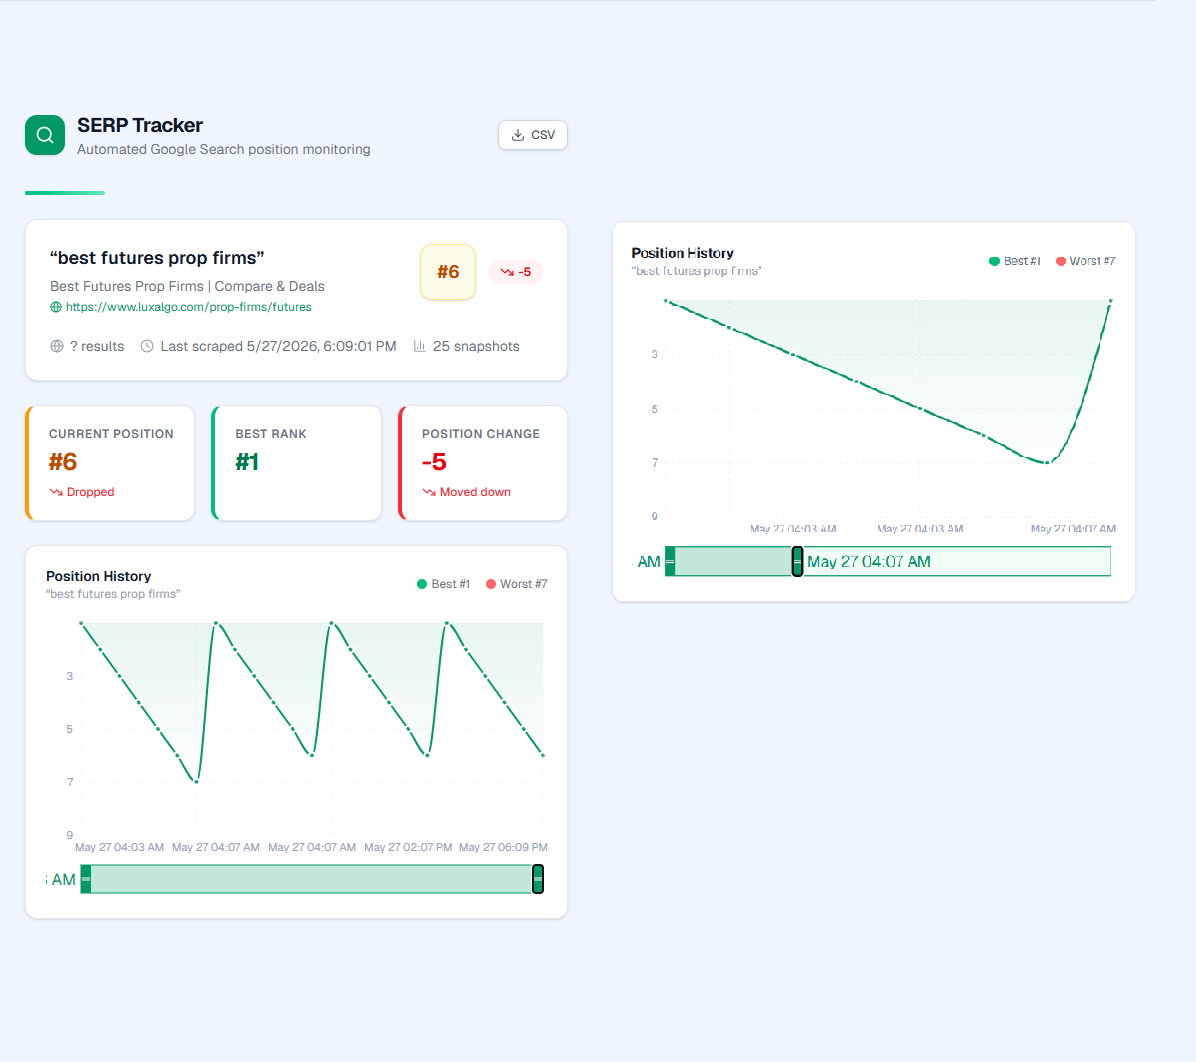
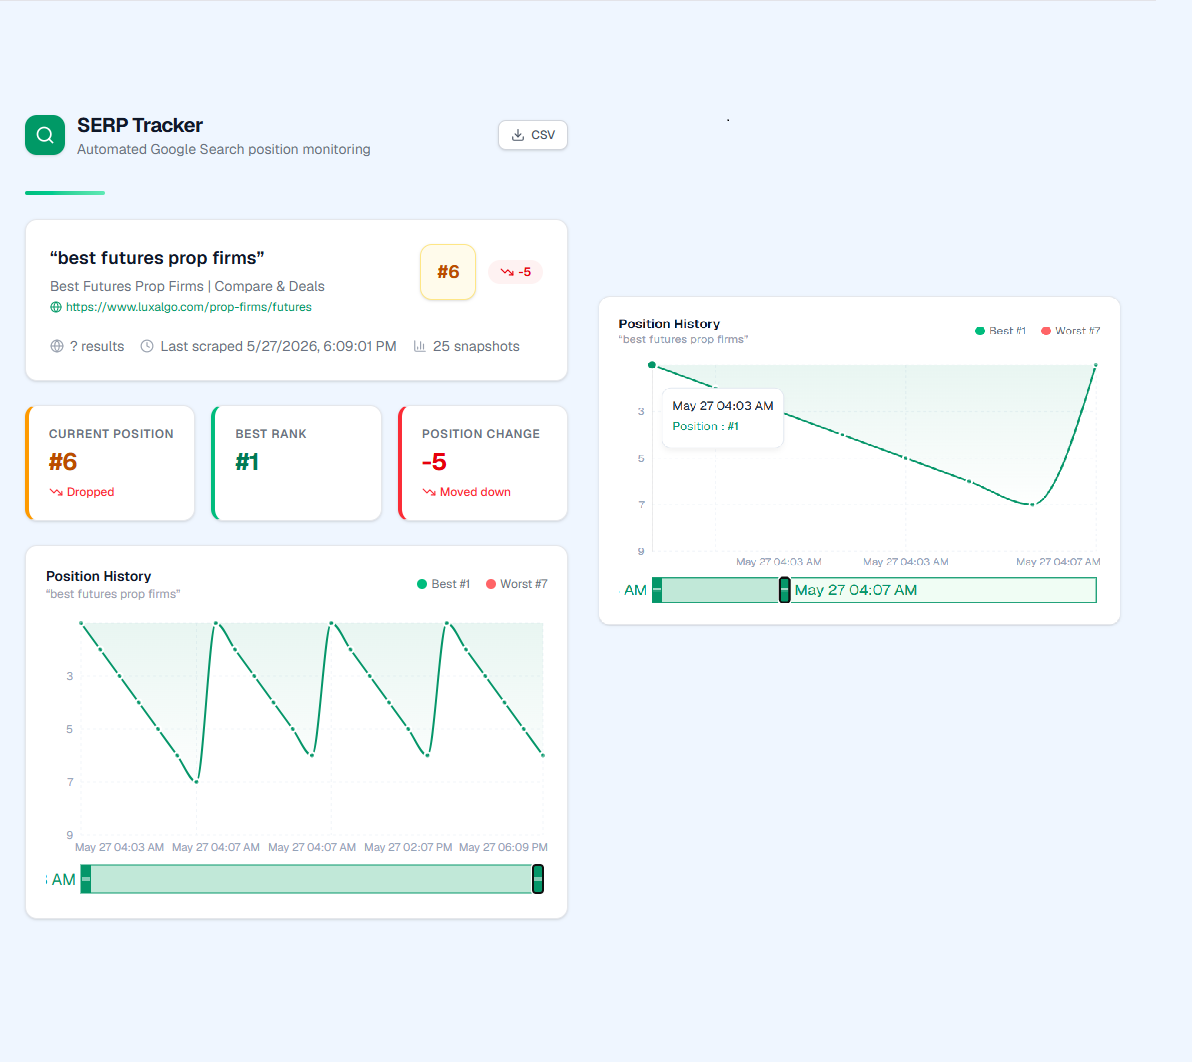
Show all SERP positions per keyword in table

diff --git a/src/app/page.tsx b/src/app/page.tsx
@@ -1,25 +1,25 @@
 "use client"
 
 import { useEffect, useState } from "react"
-import { Search, TrendingUp, TrendingDown, BarChart3, Clock, Globe } from "lucide-react"
-import StatCard from "@/components/StatCard"
+import { Search, BarChart3, Clock, Globe } from "lucide-react"
 import RankChart from "@/components/RankChart"
 import ExportButton from "@/components/ExportButton"
 
+type SERPResult = {
+  position: number | null
+  title: string | null
+  url: string | null
+  rating: number | null
+  description: string | null
+  snapshots: number
+  history: { date: string; position: number | null }[]
+}
+
 type KeywordData = {
   keyword: string
-  currentPosition: number | null
-  currentTitle: string | null
-  currentUrl: string | null
-  currentRating: number | null
   totalResults: number | null
   lastScraped: string
-  stats: {
-    best: number | null
-    change: number | null
-    totalSnapshots: number
-  }
-  positionHistory: { date: string; position: number | null }[]
+  results: SERPResult[]
 }
 
 export default function Home() {
@@ -55,13 +55,6 @@ export default function Home() {
     )
   }
 
-  function positionColor(pos: number | null): "green" | "amber" | "red" {
-    if (pos === null) return "amber"
-    if (pos <= 3) return "green"
-    if (pos <= 10) return "amber"
-    return "red"
-  }
-
   return (
     <div className="mx-auto max-w-6xl px-4 py-10">
       <div className="mb-8 flex items-center justify-between">
@@ -77,16 +70,17 @@ export default function Home() {
           </div>
         </div>
         <ExportButton
-          data={data.flatMap((kw) => ({
-            Keyword: kw.keyword,
-            Position: kw.currentPosition ?? "",
-            Title: kw.currentTitle ?? "",
-            URL: kw.currentUrl ?? "",
-            Rating: kw.currentRating ?? "",
-            "Total Results": kw.totalResults ?? "",
-            "Best Rank": kw.stats.best ?? "",
-            Change: kw.stats.change ?? "",
-          }))}
+          data={data.flatMap((kw) =>
+            kw.results.map((r) => ({
+              Keyword: kw.keyword,
+              Position: r.position ?? "",
+              Title: r.title ?? "",
+              URL: r.url ?? "",
+              Rating: r.rating ?? "",
+              "Total Results": kw.totalResults ?? "",
+              Snapshots: r.snapshots,
+            }))
+          )}
           columns={[
             { key: "Keyword", label: "Keyword" },
             { key: "Position", label: "Position" },
@@ -94,8 +88,7 @@ export default function Home() {
             { key: "URL", label: "URL" },
             { key: "Rating", label: "Rating" },
             { key: "Total Results", label: "Total Results" },
-            { key: "Best Rank", label: "Best Rank" },
-            { key: "Change", label: "Change" },
+            { key: "Snapshots", label: "Snapshots" },
           ]}
           filename="serp-positions"
         />
@@ -103,111 +96,79 @@ export default function Home() {
 
       <div className="mb-6 h-1 w-20 rounded-full bg-gradient-to-r from-emerald-500 to-emerald-300" />
 
-      {data.map((kw) => {
-        const improved = kw.stats.change !== null && kw.stats.change > 0
-        const dropped = kw.stats.change !== null && kw.stats.change < 0
-        const posAccent = positionColor(kw.currentPosition)
-
-        return (
-          <div key={kw.keyword} className="space-y-6">
-            <div className="rounded-xl border border-gray-200 bg-white p-6 shadow-sm">
-              <div className="flex items-start justify-between gap-4">
-                <div className="min-w-0 flex-1">
-                  <h2 className="text-lg font-semibold text-gray-900">
-                    &ldquo;{kw.keyword}&rdquo;
-                  </h2>
-                  <p className="mt-1 text-sm text-gray-500 line-clamp-1">
-                    {kw.currentTitle ?? "No title data"}
-                  </p>
-                  {kw.currentUrl && (
-                    <a
-                      href={kw.currentUrl}
-                      target="_blank"
-                      rel="noopener noreferrer"
-                      className="mt-0.5 inline-flex items-center gap-1 text-xs text-emerald-600 hover:text-emerald-700 hover:underline"
-                    >
-                      <Globe size={12} />
-                      {kw.currentUrl.slice(0, 70)}
-                    </a>
-                  )}
-                </div>
-                <div className="flex flex-col items-end gap-2">
-                  <div className="flex items-center gap-3">
-                    <div className={`flex h-14 w-14 items-center justify-center rounded-xl font-bold text-lg shadow-sm ${
-                      posAccent === "green" ? "bg-emerald-50 text-emerald-700 border border-emerald-200" :
-                      posAccent === "amber" ? "bg-amber-50 text-amber-700 border border-amber-200" :
-                      "bg-red-50 text-red-600 border border-red-200"
-                    }`}>
-                      #{kw.currentPosition ?? "?"}
-                    </div>
-                    {improved && (
-                      <span className="inline-flex items-center gap-1 rounded-full bg-emerald-50 px-3 py-1 text-xs font-semibold text-emerald-700">
-                        <TrendingUp size={14} />
-                        +{kw.stats.change}
-                      </span>
-                    )}
-                    {dropped && (
-                      <span className="inline-flex items-center gap-1 rounded-full bg-red-50 px-3 py-1 text-xs font-semibold text-red-600">
-                        <TrendingDown size={14} />
-                        {kw.stats.change}
-                      </span>
-                    )}
-                    {kw.stats.change === 0 && (
-                      <span className="inline-flex items-center gap-1 rounded-full bg-gray-50 px-3 py-1 text-xs font-semibold text-gray-500">
-                        No change
-                      </span>
-                    )}
-                  </div>
-                  {kw.currentRating && (
-                    <span className="text-xs text-amber-600 font-medium">
-                      ⭐ {kw.currentRating}
-                    </span>
-                  )}
-                </div>
+      {data.map((kw) => (
+        <div key={kw.keyword} className="space-y-6">
+          <div className="rounded-xl border border-gray-200 bg-white p-6 shadow-sm">
+            <div className="flex items-center justify-between gap-4 mb-4">
+              <div>
+                <h2 className="text-lg font-semibold text-gray-900">
+                  &ldquo;{kw.keyword}&rdquo;
+                </h2>
+                <p className="text-sm text-gray-500">
+                  {kw.totalResults?.toLocaleString() ?? "?"} results · Last scraped {new Date(kw.lastScraped).toLocaleString("en")}
+                </p>
               </div>
-
-              <div className="mt-4 flex flex-wrap items-center gap-4 text-sm text-gray-500">
-                <span className="flex items-center gap-1.5">
-                  <Globe size={14} className="text-gray-400" />
-                  {kw.totalResults ? `${kw.totalResults.toLocaleString()} results` : ""}
-                </span>
-                <span className="flex items-center gap-1.5">
-                  <Clock size={14} className="text-gray-400" />
-                  Last scraped {new Date(kw.lastScraped).toLocaleString("en")}
-                </span>
-                <span className="flex items-center gap-1.5">
-                  <BarChart3 size={14} className="text-gray-400" />
-                  {kw.stats.totalSnapshots} snapshots
-                </span>
-              </div>
+              <span className="text-xs text-gray-400">{kw.results.length} positions</span>
             </div>
 
-            <div className="grid grid-cols-3 gap-4">
-              <StatCard
-                label="Current Position"
-                value={kw.currentPosition !== null ? `#${kw.currentPosition}` : null}
-                accent={posAccent}
-                trend={improved ? "up" : dropped ? "down" : "neutral"}
-                trendLabel={improved ? "Improved" : dropped ? "Dropped" : "Stable"}
-              />
-              <StatCard
-                label="Best Rank"
-                value={kw.stats.best !== null ? `#${kw.stats.best}` : null}
-                accent="green"
-              />
-              <StatCard
-                label="Position Change"
-                value={kw.stats.change !== null ? `${kw.stats.change > 0 ? "+" : ""}${kw.stats.change}` : null}
-                accent={improved ? "green" : dropped ? "red" : "amber"}
-                trend={improved ? "up" : dropped ? "down" : "neutral"}
-                trendLabel={improved ? "Moved up" : dropped ? "Moved down" : "Unchanged"}
-              />
+            <div className="overflow-hidden rounded-xl border border-gray-200 shadow-sm">
+              <table className="w-full text-sm">
+                <thead>
+                  <tr className="border-b border-gray-200 bg-gray-50">
+                    <th className="px-4 py-2.5 text-left text-xs font-semibold uppercase tracking-wider text-gray-500 w-12">#</th>
+                    <th className="px-4 py-2.5 text-left text-xs font-semibold uppercase tracking-wider text-gray-500">Title</th>
+                    <th className="px-4 py-2.5 text-left text-xs font-semibold uppercase tracking-wider text-gray-500 hidden sm:table-cell">URL</th>
+                    <th className="px-4 py-2.5 text-right text-xs font-semibold uppercase tracking-wider text-gray-500 w-16">Rating</th>
+                    <th className="px-4 py-2.5 text-right text-xs font-semibold uppercase tracking-wider text-gray-500 w-20">Snapshots</th>
+                  </tr>
+                </thead>
+                <tbody className="divide-y divide-gray-100">
+                  {kw.results.map((r, i) => (
+                    <tr key={r.url ?? i} className="hover:bg-gray-50 transition-colors">
+                      <td className="px-4 py-2.5">
+                        <span className={`inline-flex items-center justify-center w-8 h-7 rounded-md text-sm font-bold ${
+                          (r.position ?? 999) <= 3 ? "bg-emerald-50 text-emerald-700" :
+                          (r.position ?? 999) <= 10 ? "bg-amber-50 text-amber-700" :
+                          "bg-gray-100 text-gray-500"
+                        }`}>
+                          #{r.position ?? "?"}
+                        </span>
+                      </td>
+                      <td className="px-4 py-2.5">
+                        <p className="font-medium text-gray-900 line-clamp-1">{r.title ?? "—"}</p>
+                        {r.description && (
+                          <p className="text-xs text-gray-400 line-clamp-1 mt-0.5">{r.description}</p>
+                        )}
+                      </td>
+                      <td className="px-4 py-2.5 hidden sm:table-cell">
+                        {r.url && (
+                          <a href={r.url} target="_blank" rel="noopener noreferrer" className="text-xs text-emerald-600 hover:underline line-clamp-1">
+                            <Globe size={11} className="inline mr-0.5" />
+                            {r.url.slice(0, 50)}
+                          </a>
+                        )}
+                      </td>
+                      <td className="px-4 py-2.5 text-right text-sm text-gray-500">
+                        {r.rating ? <span className="text-amber-600">⭐ {r.rating}</span> : "—"}
+                      </td>
+                      <td className="px-4 py-2.5 text-right">
+                        <span className="inline-flex items-center gap-1 text-xs text-gray-500">
+                          <BarChart3 size={12} className="text-gray-400" />
+                          {r.snapshots}
+                        </span>
+                      </td>
+                    </tr>
+                  ))}
+                </tbody>
+              </table>
             </div>
 
-            <RankChart data={kw.positionHistory} keyword={kw.keyword} />
+            <div className="mt-4">
+              <RankChart data={kw.results.flatMap(r => r.history)} keyword={kw.keyword} />
+            </div>
           </div>
-        )
-      })}
+        </div>
+      ))}
 
       <footer className="mt-12 border-t border-gray-200 pt-6 text-center text-xs text-gray-400">
         Data refreshed daily

diff --git a/src/app/api/serp/route.ts b/src/app/api/serp/route.ts
@@ -5,39 +5,47 @@ export async function GET() {
   await initDb()
 
   const rows = await getAllKeywords()
-  const result = []
+
+  const grouped = new Map<string, {
+    keyword: string
+    totalResults: number | null
+    lastScraped: string
+    results: { position: number | null; title: string | null; url: string | null; rating: number | null; description: string | null; snapshots: number; history: { date: string; position: number | null }[] }[]
+  }>()
 
   for (const r of rows) {
-    const history = await getHistory(r.keyword)
-    const positions = history.map((h) => ({
-      date: h.scraped_at,
-      position: h.position,
-    }))
+    const history = await getHistory(r.keyword, r.url ?? undefined)
+    const key = r.keyword
 
-    const numericPositions = positions
-      .map((p) => p.position)
-      .filter((p): p is number => p !== null)
+    if (!grouped.has(key)) {
+      grouped.set(key, {
+        keyword: key,
+        totalResults: r.total_results,
+        lastScraped: r.scraped_at,
+        results: [],
+      })
+    }
 
-    const best = numericPositions.length ? Math.min(...numericPositions) : null
-    const latest = numericPositions[numericPositions.length - 1] ?? null
-    const first = numericPositions[0] ?? null
-    const change =
-      latest !== null && first !== null
-        ? first - latest
-        : null
+    const entry = grouped.get(key)!
+    if (new Date(r.scraped_at) > new Date(entry.lastScraped)) {
+      entry.lastScraped = r.scraped_at
+    }
 
-    result.push({
-      keyword: r.keyword,
-      currentPosition: r.position,
-      currentTitle: r.title,
-      currentUrl: r.url,
-      currentRating: r.rating,
-      totalResults: r.total_results,
-      lastScraped: r.scraped_at,
-      stats: { best, change, totalSnapshots: history.length },
-      positionHistory: positions,
+    entry.results.push({
+      position: r.position,
+      title: r.title,
+      url: r.url,
+      rating: r.rating,
+      description: r.description,
+      snapshots: history.length,
+      history: history.map((h) => ({ date: h.scraped_at, position: h.position })),
     })
   }
 
-  return Response.json({ keywords: result })
+  const keywords = Array.from(grouped.values()).map((g) => ({
+    ...g,
+    results: g.results.sort((a, b) => (a.position ?? 999) - (b.position ?? 999)),
+  }))
+
+  return Response.json({ keywords })
 }

diff --git a/src/db/queries.ts b/src/db/queries.ts
@@ -30,11 +30,13 @@ export async function saveSnapshot(snapshot: SERPSnapshot) {
   })
 }
 
-export async function getHistory(keyword: string): Promise<Row[]> {
+export async function getHistory(keyword: string, url?: string): Promise<Row[]> {
   const db = await getDb()
   const result = await db.execute({
-    sql: `SELECT * FROM serp_snapshots WHERE keyword = ? ORDER BY scraped_at ASC`,
-    args: [keyword],
+    sql: url
+      ? `SELECT * FROM serp_snapshots WHERE keyword = ? AND url = ? ORDER BY scraped_at ASC`
+      : `SELECT * FROM serp_snapshots WHERE keyword = ? ORDER BY scraped_at ASC`,
+    args: url ? [keyword, url] : [keyword],
   })
   return result.rows as unknown as Row[]
 }
@@ -53,8 +55,8 @@ export async function getAllKeywords(): Promise<Row[]> {
   const db = await getDb()
   const result = await db.execute(`
     SELECT * FROM serp_snapshots WHERE id IN (
-      SELECT MAX(id) FROM serp_snapshots GROUP BY keyword
-    ) ORDER BY scraped_at DESC
+      SELECT MAX(id) FROM serp_snapshots GROUP BY keyword, url
+    ) ORDER BY keyword, position
   `)
   return result.rows as unknown as Row[]
 }
